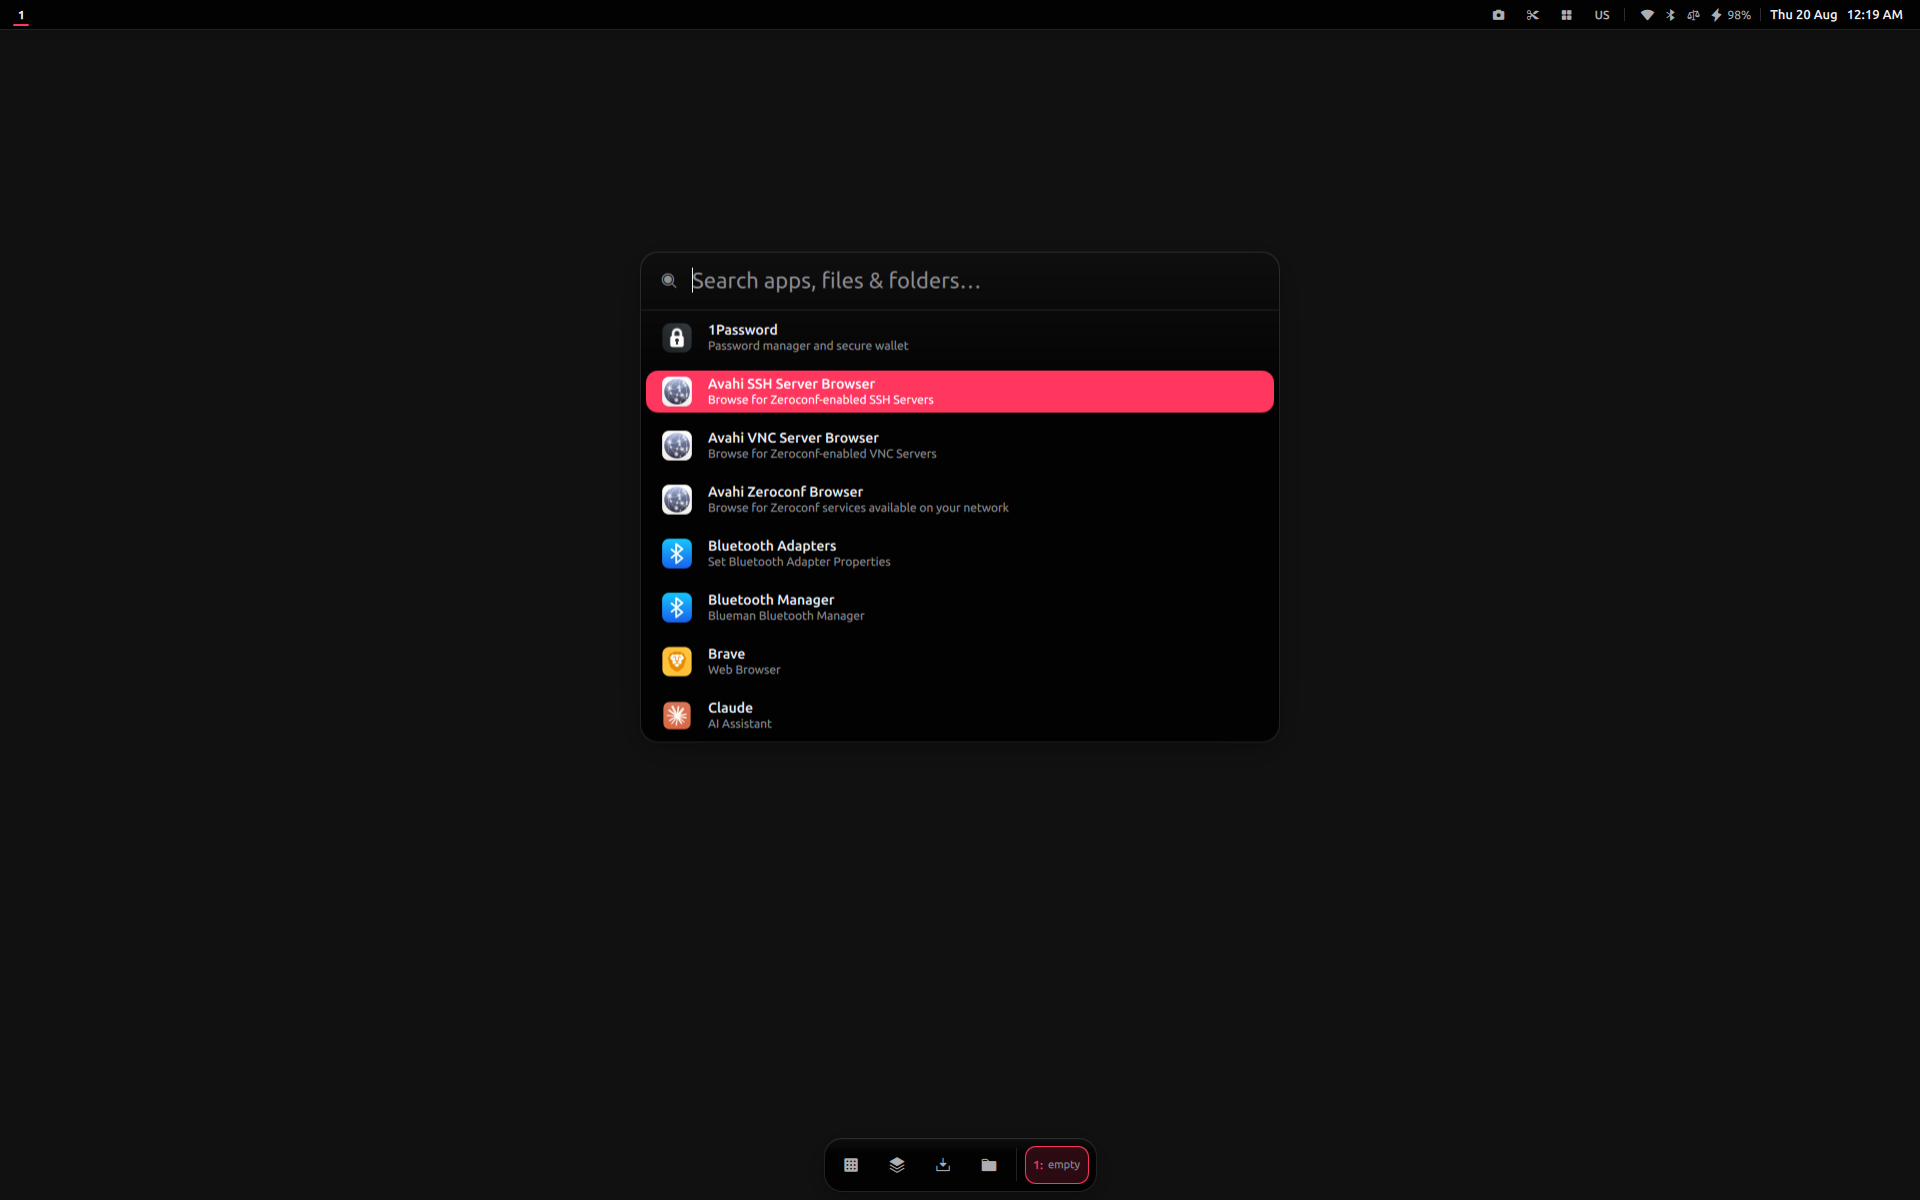
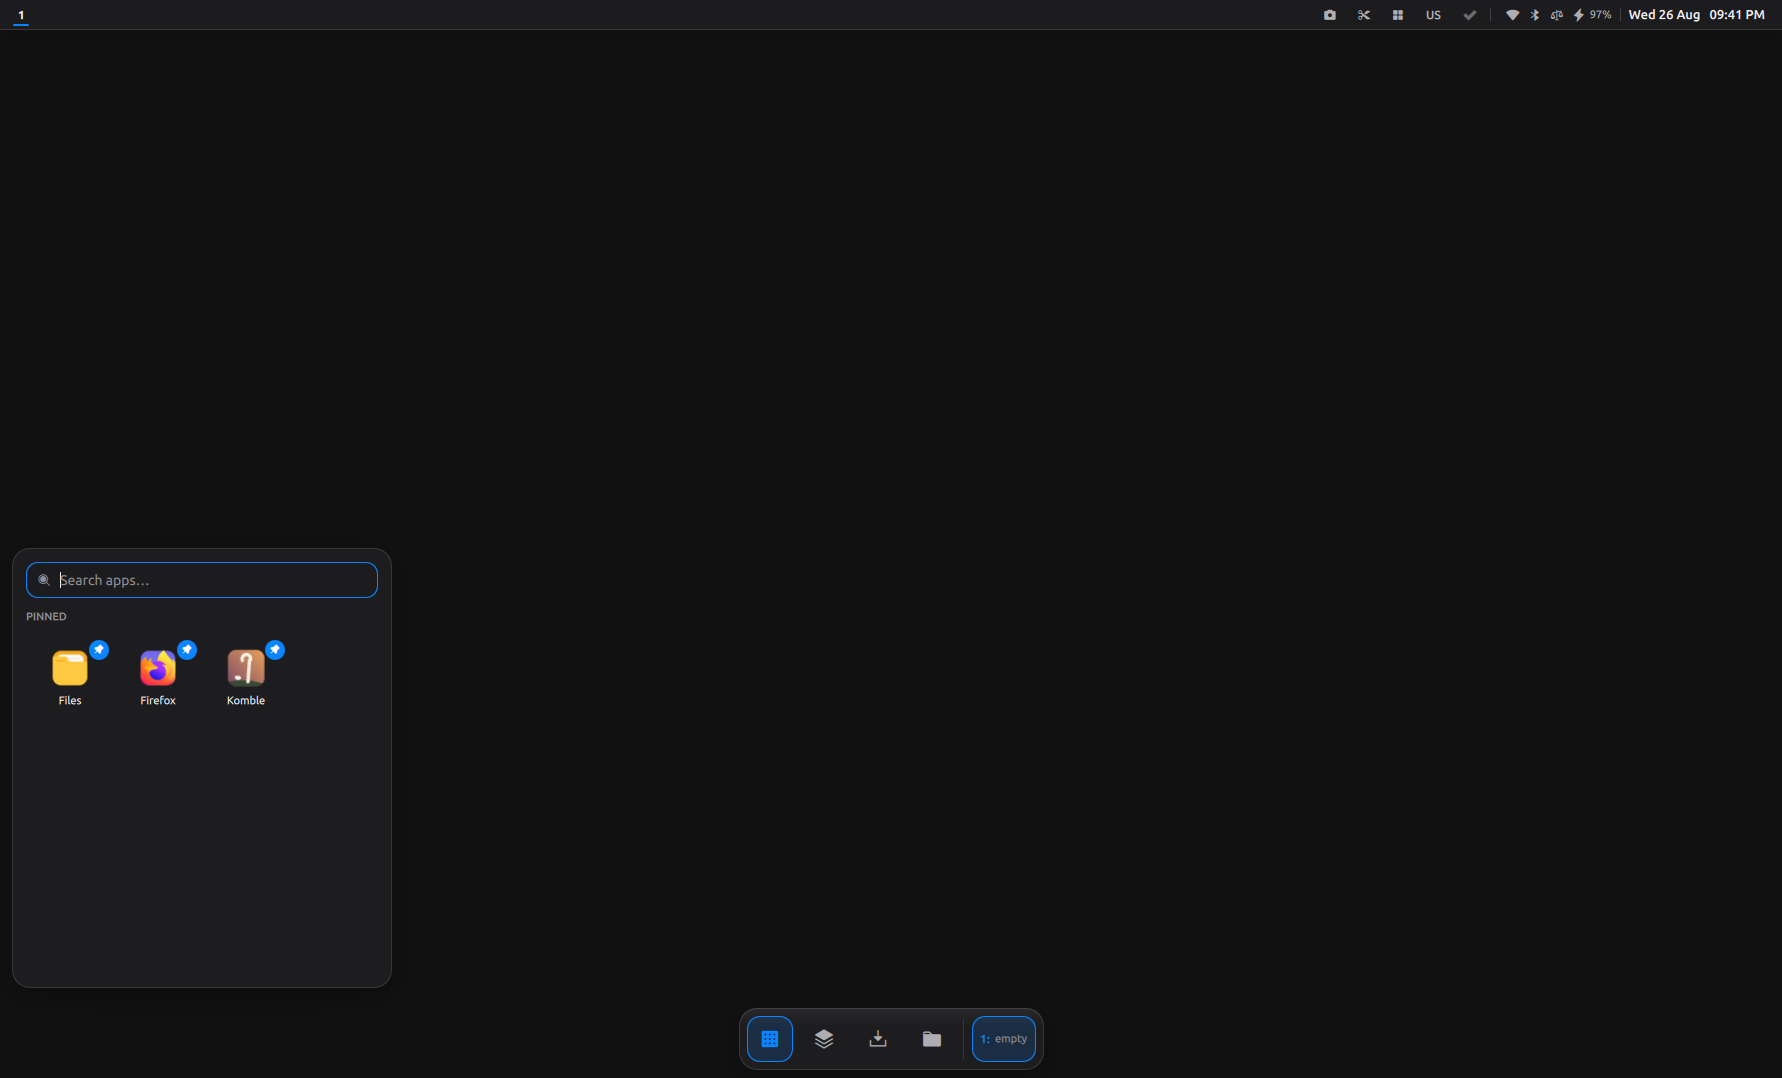
docs: retire the hypr-shell-era demo video, refresh the README screenshots
The video was a pre-rename user-attachments upload — gone. The four
docs/media shots are recaptured from 0.8.3 in the nested test compositor
(1782x1077, driver output bumped from 1280x800): current blue accent, the
new dock intelligent-hide visible in the tiling shot, Komble 0.8.2's
Discover, and a factory-state shell — private D-Bus + a throwaway HOME so
no personal mail/calendar/pins can leak into a public image again.

Claude-Session: https://claude.ai/code/session_01WkW4NLVgnDhDszjJJjqTuj

diff --git a/README.md b/README.md
@@ -66,8 +66,6 @@ Then reboot, pick **Ewe** at the login screen, and you're in —
 
 ## A look around
 
-https://github.com/user-attachments/assets/a2ffb2e1-2482-46c7-911d-c94bb8413434
-
 | | |
 |---|---|
 | **Tiling workflow**<br><img src="docs/media/tiling.png" alt="Tiling workflow"> | **Launcher** — fuzzy app / file search<br><img src="docs/media/launcher.png" alt="Launcher"> |
